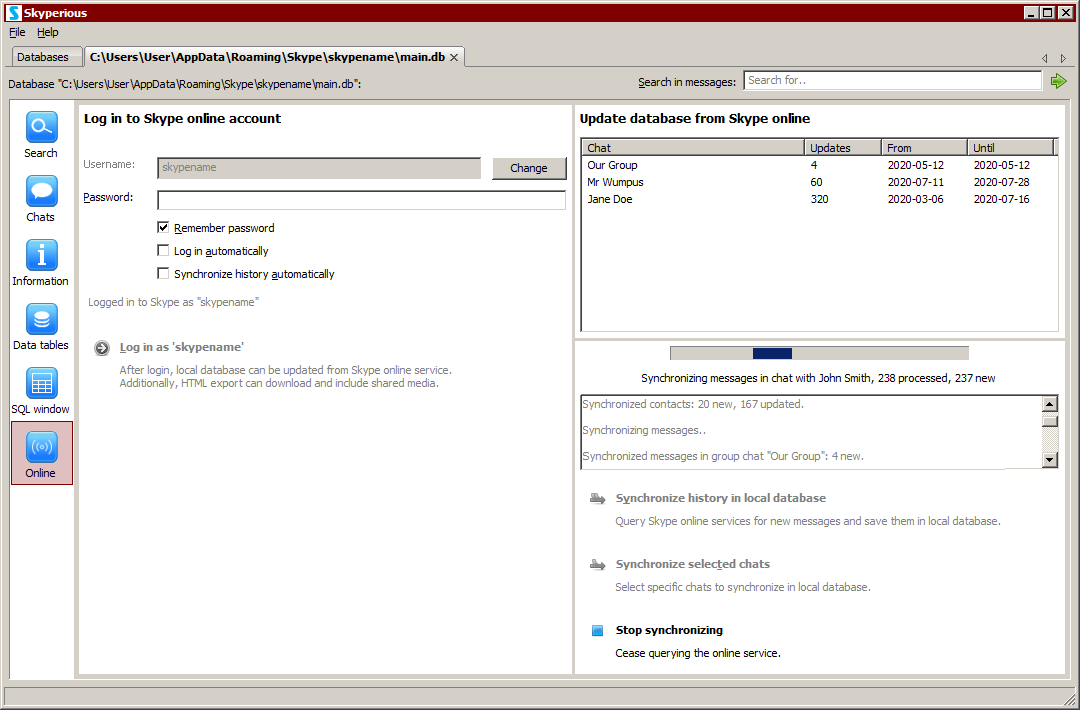
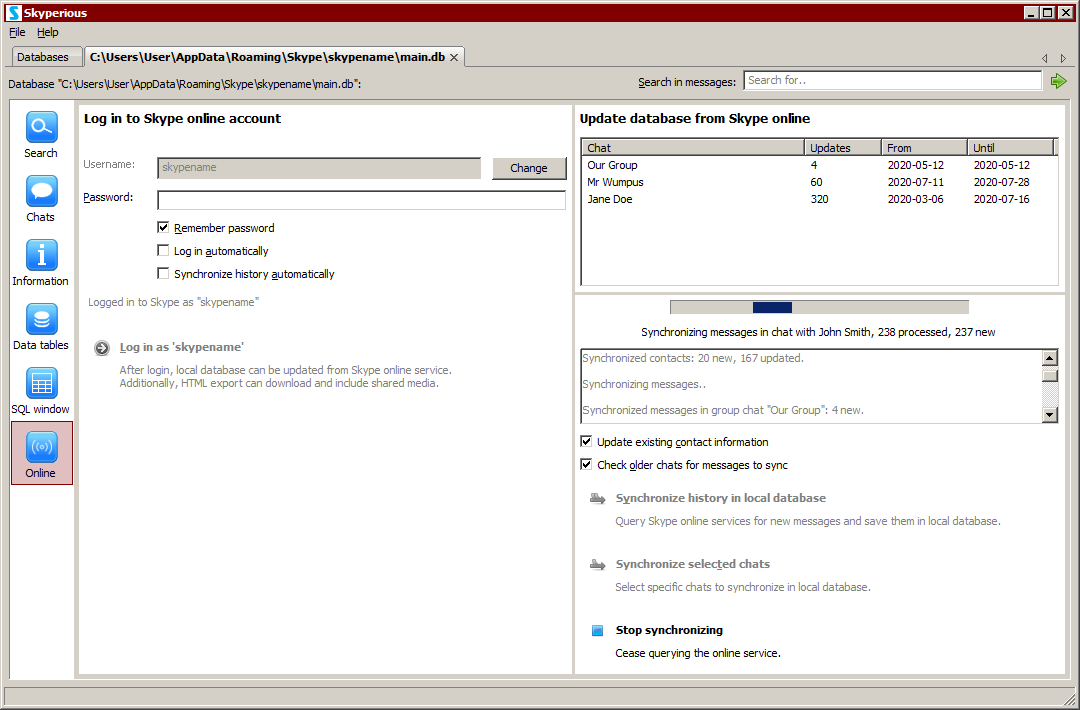
Updated texts and links and screenshots to v4.6.

Changed region(s): [[0.5194, 0.4028, 1.0, 0.6817]]

diff --git a/changelog.html b/changelog.html
@@ -40,14 +40,33 @@
           <a href="https://github.com/suurjaak/Skyperious">View the Project on GitHub <small>suurjaak/Skyperious</small></a>
         </p>
         <ul>
-          <li><a href="https://erki.lap.ee/downloads/Skyperious/skyperious_4.5_setup.exe">Download <strong>Setup</strong></a></li>
-          <li><a href="https://erki.lap.ee/downloads/Skyperious/skyperious_4.5_x64_setup.exe">Download <strong>64bit Setup</strong></a></li>
-          <li><a href="https://erki.lap.ee/downloads/Skyperious/skyperious_4.5-src.zip">Download <strong>Source</strong></a></li>
+          <li><a href="https://erki.lap.ee/downloads/Skyperious/skyperious_4.6_setup.exe">Download <strong>Setup</strong></a></li>
+          <li><a href="https://erki.lap.ee/downloads/Skyperious/skyperious_4.6_x64_setup.exe">Download <strong>64bit Setup</strong></a></li>
+          <li><a href="https://erki.lap.ee/downloads/Skyperious/skyperious_4.6-src.zip">Download <strong>Source</strong></a></li>
         </ul>
       </header>
 
       <section>
         <h2>Changelog</h2>
+
+        <h4>v4.6, 2021-04-03:</h4>
+        <ul>
+          <li>update existing contact information in database on live sync</li>
+          <li>added flag to not update contact information in database from live</li>
+          <li>sync older chats from live not just recent ones (issue #93)</li>
+          <li>added flag to not sync older chats from live</li>
+          <li>show &lt;pre&gt;-tag content in chat reader</li>
+          <li>show @-taggings in chat reader and style them bold in reader and HTML</li>
+          <li>ask for confirmation when exporting HTML with media in subfolder, but login unavailable for downloading media (issue #93)</li>
+          <li>fixed error on creating chat date links during the month of March</li>
+          <li>fixed "Go to previous [period]" not working in chat history if history starts with previous period</li>
+          <li>fixed merge not showing correct diff in individual chats view</li>
+          <li>fixed duplicates in syncing bot contacts and messages from live (issue #93)</li>
+          <li>fixed not retaining the order of command-line FILE arguments (issue #93)</li>
+          <li>fixed displaying shared media with duplicate filenames in HTML export with subfolder (issue #93)</li>
+          <li>add detected media type extension to shared media exported in HTML if lacking one (issue #93)</li>
+        </ul>
+        <br />
 
         <h4>v4.5, 2021-02-09:</h4>
         <ul>

diff --git a/help.html b/help.html
@@ -45,9 +45,9 @@
           <a href="https://github.com/suurjaak/Skyperious">View the Project on GitHub <small>suurjaak/Skyperious</small></a>
         </p>
         <ul>
-          <li><a href="https://erki.lap.ee/downloads/Skyperious/skyperious_4.5_setup.exe">Download <strong>Setup</strong></a></li>
-          <li><a href="https://erki.lap.ee/downloads/Skyperious/skyperious_4.5_x64_setup.exe">Download <strong>64bit Setup</strong></a></li>
-          <li><a href="https://erki.lap.ee/downloads/Skyperious/skyperious_4.5-src.zip">Download <strong>Source</strong></a></li>
+          <li><a href="https://erki.lap.ee/downloads/Skyperious/skyperious_4.6_setup.exe">Download <strong>Setup</strong></a></li>
+          <li><a href="https://erki.lap.ee/downloads/Skyperious/skyperious_4.6_x64_setup.exe">Download <strong>64bit Setup</strong></a></li>
+          <li><a href="https://erki.lap.ee/downloads/Skyperious/skyperious_4.6-src.zip">Download <strong>Source</strong></a></li>
         </ul>
       </header>
       <section>
@@ -356,6 +356,14 @@ optional arguments:
                         prompted
   --ask-password        prompt for Skype account password
   --store-password      store given password in configuration
+  --contact-update      update profile fields of existing contacts from online
+                        data (default)
+  --no-contact-update   do not update profile fields of existing contacts from
+                        online data
+  --check-older         check all older chats in database for messages to
+                        sync, may take a long time (default)
+  --no-check-older      do not check all older chats in database for messages
+                        to sync
   -c CHAT [CHAT ...], --chat CHAT [CHAT ...]
                         names of specific chats to sync
   -a AUTHOR [AUTHOR ...], --author AUTHOR [AUTHOR ...]
@@ -398,7 +406,7 @@ optional arguments:
 usage: skyperious merge [-h] [--verbose] [-o OUTPUT] FILE1 FILE2 [FILE2 ...]
 
 Merge two or more Skype database files into a new database in current
-directory, with a full combined message history. New filename will be chosen
+directory, with a full combined message history. New filename will be generated
 automatically. Last database in the list will be used as base for comparison.
 
 positional arguments:

diff --git a/downloads.html b/downloads.html
@@ -40,9 +40,9 @@
           <a href="https://github.com/suurjaak/Skyperious">View the Project on GitHub <small>suurjaak/Skyperious</small></a>
         </p>
         <ul>
-          <li><a href="https://erki.lap.ee/downloads/Skyperious/skyperious_4.5_setup.exe">Download <strong>Setup</strong></a></li>
-          <li><a href="https://erki.lap.ee/downloads/Skyperious/skyperious_4.5_x64_setup.exe">Download <strong>64bit Setup</strong></a></li>
-          <li><a href="https://erki.lap.ee/downloads/Skyperious/skyperious_4.5-src.zip">Download <strong>Source</strong></a></li>
+          <li><a href="https://erki.lap.ee/downloads/Skyperious/skyperious_4.6_setup.exe">Download <strong>Setup</strong></a></li>
+          <li><a href="https://erki.lap.ee/downloads/Skyperious/skyperious_4.6_x64_setup.exe">Download <strong>64bit Setup</strong></a></li>
+          <li><a href="https://erki.lap.ee/downloads/Skyperious/skyperious_4.6-src.zip">Download <strong>Source</strong></a></li>
         </ul>
       </header>
       <section>

diff --git a/faq.html b/faq.html
@@ -40,9 +40,9 @@
           <a href="https://github.com/suurjaak/Skyperious">View the Project on GitHub <small>suurjaak/Skyperious</small></a>
         </p>
         <ul>
-          <li><a href="https://erki.lap.ee/downloads/Skyperious/skyperious_4.5_setup.exe">Download <strong>Setup</strong></a></li>
-          <li><a href="https://erki.lap.ee/downloads/Skyperious/skyperious_4.5_x64_setup.exe">Download <strong>64bit Setup</strong></a></li>
-          <li><a href="https://erki.lap.ee/downloads/Skyperious/skyperious_4.5-src.zip">Download <strong>Source</strong></a></li>
+          <li><a href="https://erki.lap.ee/downloads/Skyperious/skyperious_4.6_setup.exe">Download <strong>Setup</strong></a></li>
+          <li><a href="https://erki.lap.ee/downloads/Skyperious/skyperious_4.6_x64_setup.exe">Download <strong>64bit Setup</strong></a></li>
+          <li><a href="https://erki.lap.ee/downloads/Skyperious/skyperious_4.6-src.zip">Download <strong>Source</strong></a></li>
         </ul>
       </header>
       <section>

diff --git a/install.html b/install.html
@@ -47,9 +47,9 @@
           <a href="https://github.com/suurjaak/Skyperious">View the Project on GitHub <small>suurjaak/Skyperious</small></a>
         </p>
         <ul>
-          <li><a href="https://erki.lap.ee/downloads/Skyperious/skyperious_4.5_setup.exe">Download <strong>Setup</strong></a></li>
-          <li><a href="https://erki.lap.ee/downloads/Skyperious/skyperious_4.5_x64_setup.exe">Download <strong>64bit Setup</strong></a></li>
-          <li><a href="https://erki.lap.ee/downloads/Skyperious/skyperious_4.5-src.zip">Download <strong>Source</strong></a></li>
+          <li><a href="https://erki.lap.ee/downloads/Skyperious/skyperious_4.6_setup.exe">Download <strong>Setup</strong></a></li>
+          <li><a href="https://erki.lap.ee/downloads/Skyperious/skyperious_4.6_x64_setup.exe">Download <strong>64bit Setup</strong></a></li>
+          <li><a href="https://erki.lap.ee/downloads/Skyperious/skyperious_4.6-src.zip">Download <strong>Source</strong></a></li>
         </ul>
       </header>
       <section>

diff --git a/screens.html b/screens.html
@@ -35,9 +35,9 @@
           <a href="https://github.com/suurjaak/Skyperious">View the Project on GitHub <small>suurjaak/Skyperious</small></a>
         </p>
         <ul>
-          <li><a href="https://erki.lap.ee/downloads/Skyperious/skyperious_4.5_setup.exe">Download <strong>Setup</strong></a></li>
-          <li><a href="https://erki.lap.ee/downloads/Skyperious/skyperious_4.5_x64_setup.exe">Download <strong>64bit Setup</strong></a></li>
-          <li><a href="https://erki.lap.ee/downloads/Skyperious/skyperious_4.5-src.zip">Download <strong>Source</strong></a></li>
+          <li><a href="https://erki.lap.ee/downloads/Skyperious/skyperious_4.6_setup.exe">Download <strong>Setup</strong></a></li>
+          <li><a href="https://erki.lap.ee/downloads/Skyperious/skyperious_4.6_x64_setup.exe">Download <strong>64bit Setup</strong></a></li>
+          <li><a href="https://erki.lap.ee/downloads/Skyperious/skyperious_4.6-src.zip">Download <strong>Source</strong></a></li>
         </ul>
       </header>
       <section>

diff --git a/index.html b/index.html
@@ -45,9 +45,9 @@
           <a href="https://github.com/suurjaak/Skyperious">View the Project on GitHub <small>suurjaak/Skyperious</small></a>
         </p>
         <ul>
-          <li><a href="https://erki.lap.ee/downloads/Skyperious/skyperious_4.5_setup.exe">Download <strong>Setup</strong></a></li>
-          <li><a href="https://erki.lap.ee/downloads/Skyperious/skyperious_4.5_x64_setup.exe">Download <strong>64bit Setup</strong></a></li>
-          <li><a href="https://erki.lap.ee/downloads/Skyperious/skyperious_4.5-src.zip">Download <strong>Source</strong></a></li>
+          <li><a href="https://erki.lap.ee/downloads/Skyperious/skyperious_4.6_setup.exe">Download <strong>Setup</strong></a></li>
+          <li><a href="https://erki.lap.ee/downloads/Skyperious/skyperious_4.6_x64_setup.exe">Download <strong>64bit Setup</strong></a></li>
+          <li><a href="https://erki.lap.ee/downloads/Skyperious/skyperious_4.6-src.zip">Download <strong>Source</strong></a></li>
         </ul>
       </header>
 
